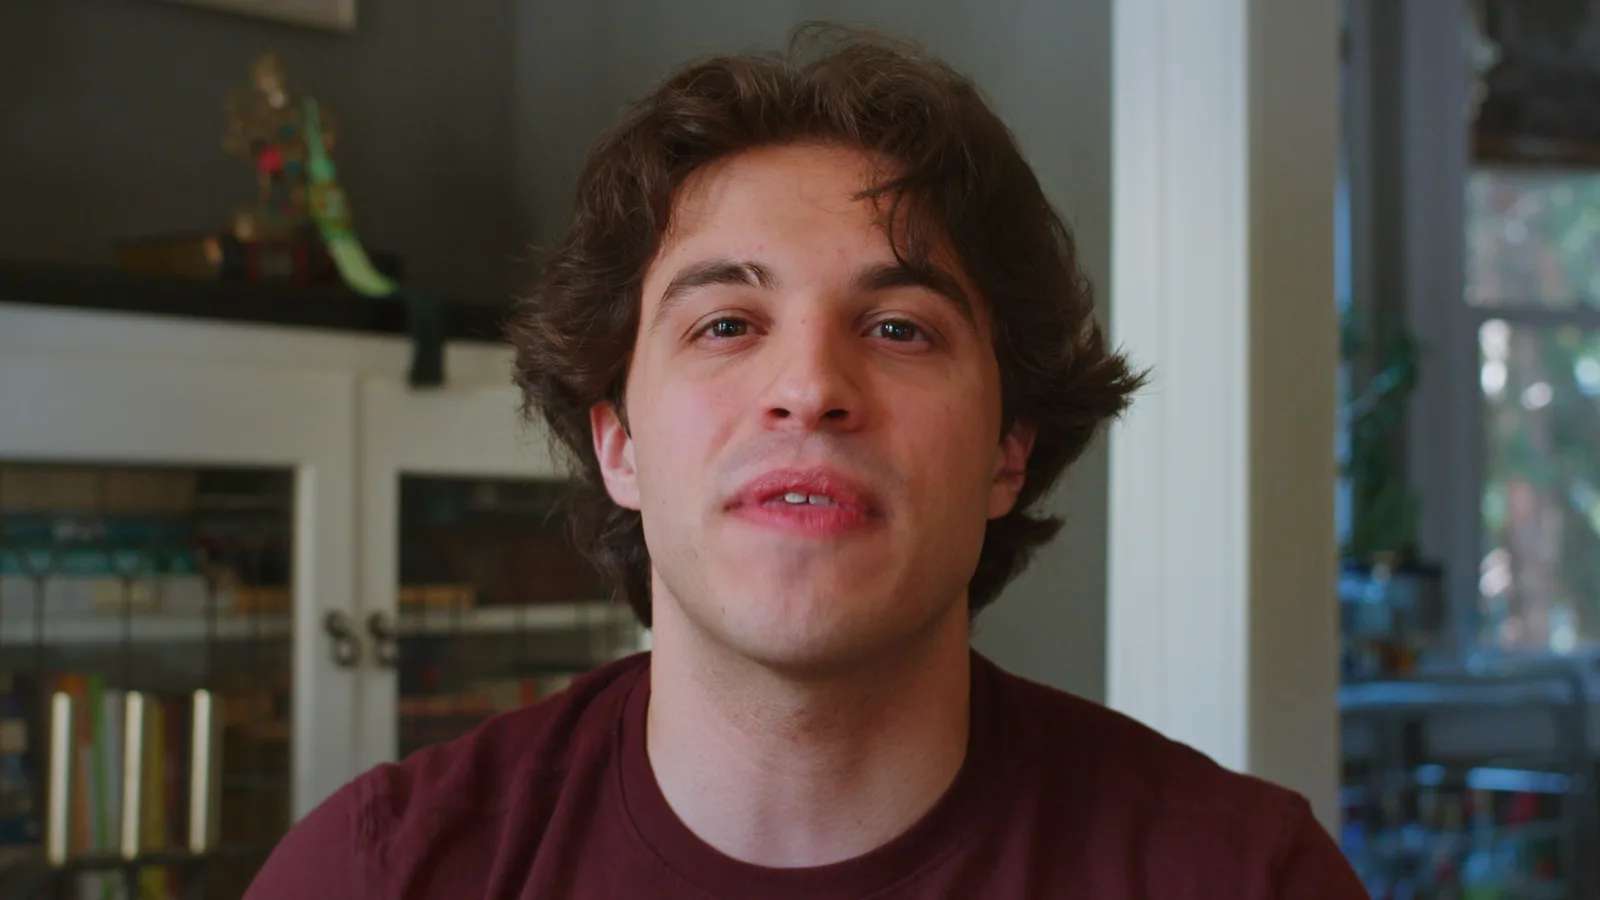
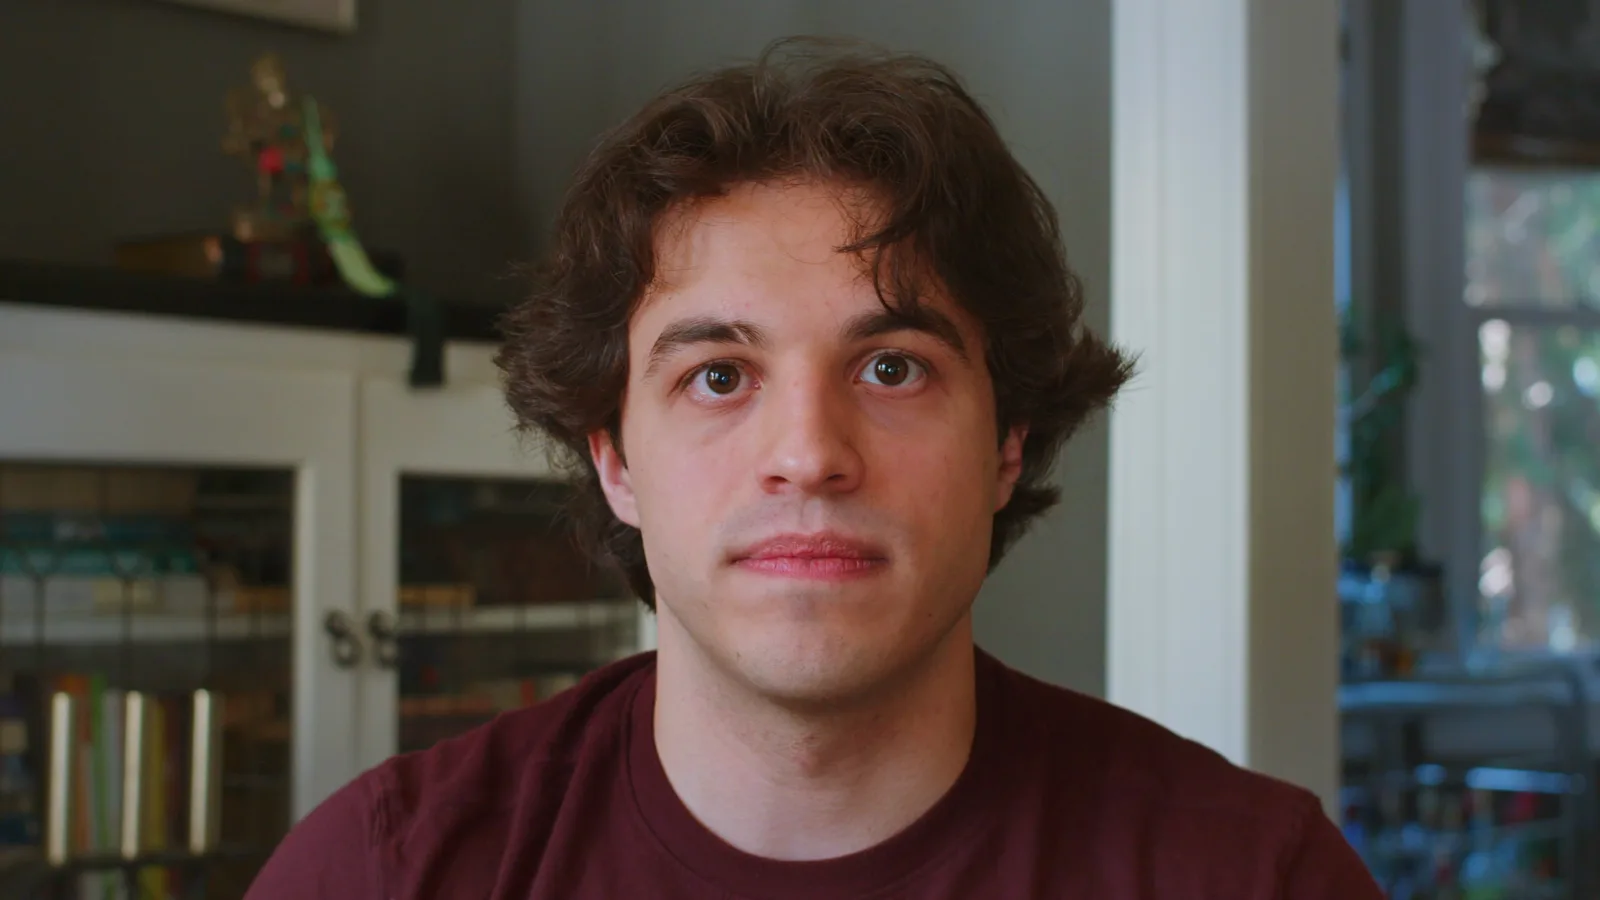
Math intro video: better thumbnail

diff --git a/math-program.html b/math-program.html
@@ -562,7 +562,7 @@ section.sec{padding:clamp(4.6rem,11vh,8.4rem) 0}
 /* keeps playing as you scroll (Luca, 2026-10-27): once the frame scrolls away mid-play, the video floats in the
    bottom-right corner and slides back into the frame when you scroll up to it. The x closes it. */
 .meet-x{display:none}
-.meet-f.dock{background:#0C0A09 url(img/math/luca-math-poster.webp) center/cover}
+.meet-f.dock{background:#0C0A09 url(img/math/luca-math-poster.webp?v=2) center/cover}
 .meet-f.dock video{position:fixed;z-index:70;right:20px;bottom:20px;width:min(380px,calc(100vw - 32px));height:auto;aspect-ratio:16/9;border-radius:14px;box-shadow:0 24px 60px -18px rgba(12,10,9,.6),0 0 0 1px rgba(255,255,255,.1);animation:meetIn .45s cubic-bezier(.16,1,.3,1)}
 .meet-f.dock .meet-x{display:flex;position:fixed;z-index:71;right:12px;bottom:calc(20px + min(380px,calc(100vw - 32px))*9/16 - 16px);width:32px;height:32px;border-radius:50%;border:0;background:#111;color:#fff;font-size:18px;line-height:1;align-items:center;justify-content:center;cursor:pointer;box-shadow:0 4px 14px rgba(0,0,0,.35)}
 @keyframes meetIn{from{opacity:0;transform:translate3d(0,24px,0) scale(.94)}}
@@ -1187,7 +1187,7 @@ nav.is-red .navlinks a{color:rgba(255,255,255,.85)}nav.is-red .navlinks a.on{col
 
 <section class="meet" id="meet" aria-label="Meet Luca, a one-minute introduction">
   <div class="meet-w"><div class="meet-f" id="meetf">
-    <video id="meetv" preload="none" playsinline poster="img/math/luca-math-poster.webp">
+    <video id="meetv" preload="none" playsinline poster="img/math/luca-math-poster.webp?v=2">
       <source src="img/math/luca-math-720.mp4" type="video/mp4" media="(max-width: 760px)">
       <source src="img/math/luca-math-1080.mp4" type="video/mp4">
       <track kind="captions" src="img/math/luca-math.vtt" srclang="en" label="English">
